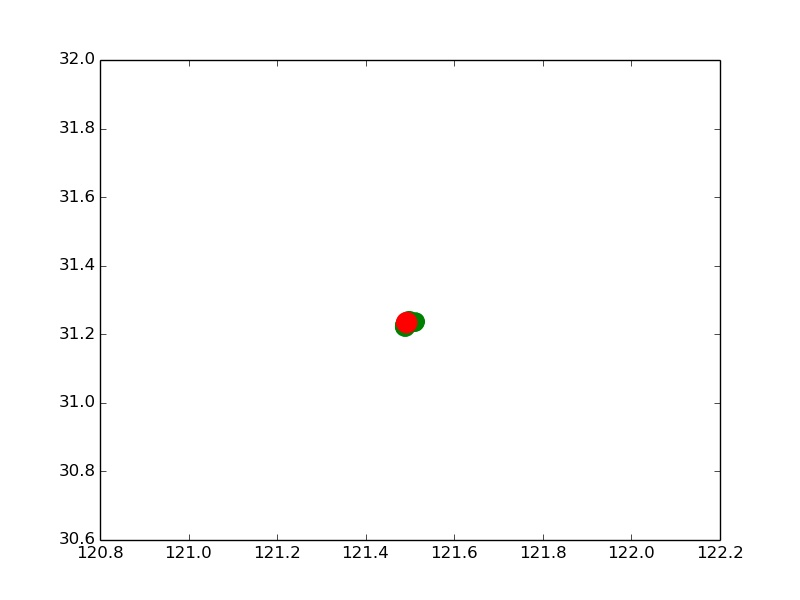
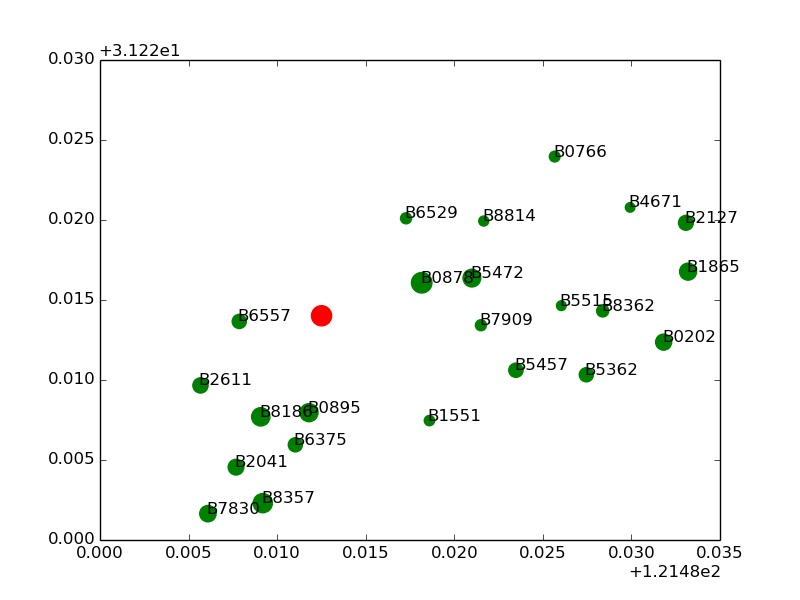
a

diff --git a/code/tools.py b/code/tools.py
@@ -8,7 +8,7 @@ from datetime import datetime
 import time
 from classes import *
 import numpy as np
-from numpy import mean, std
+from numpy import mean, std, abs
 import matplotlib.pyplot as plt
 import networkx as nx
 
@@ -24,6 +24,28 @@ def BuildKNNGraph(site,ls_spot_per_site,ls_nbrs,temp_order,CAPACITY):
 			if temp_order[ls_spot_per_site[j].sid] + temp_order[ls_spot_per_site[tpk[1]].sid]<=CAPACITY:
 				o_graph.add_edge(ls_spot_per_site[j].sid,ls_spot_per_site[tpk[1]].sid,weight = tpk[0])
 	return o_graph
+
+def ComputeCoorDirctn(lng1,lat1,lng2,lat2):
+	dirctn = 0.0
+	difflat = lat2 - lat1
+	difflng = lng2 - lng1
+	dirctn = DirTwoPi(difflng,difflat)
+	return dirctn
+
+def ComputeDirDiff(dir1,dir2):
+	dirdiff = 0.0
+	diffraw = 0.0
+	diffraw = abs(dir1 - dir2)
+	if diffraw > pi:
+		dirdiff = 2.0 * pi - diffraw
+	else:
+		dirdiff = diffraw
+	return dirdiff
+
+def ComputeNodeDirctn(p1,p2,ls_site,ls_spot,ls_shop):
+	[lng1,lat1] = GetLngLat(p1,ls_site,ls_spot,ls_shop)
+	[lng2,lat2] = GetLngLat(p2,ls_site,ls_spot,ls_shop)
+	return ComputeCoorDirctn(lng1,lat1,lng2,lat2)
 
 def ComputeTimeTbl(ls_trip,ls_site,ls_spot,ls_shop):
 	timetable = []
@@ -69,17 +91,44 @@ def Dist(p1,p2):
 	dist = copy(dist) / 1000.0
 	return dist
 
+def DirTwoPi(difflng,difflat):
+	dirctn = 0.0
+	if difflng == 0.0:
+		if difflat > 0.0:
+			return pi/2.0
+		elif difflat < 0.0:
+			return pi * 1.5
+		else:
+			return 0.0
+	if difflat == 0.0:
+		if difflng > 0.0:
+			return 0.0
+		elif difflng < 0.0:
+			return pi
+	dirraw = atan(difflat/difflng)
+	if difflng < 0.0:
+		if difflat > 0.0:
+			dirctn = copy(dirraw) + pi
+		elif difflat < 0.0:
+			dirctn = copy(dirraw) + pi
+	elif difflng > 0.0:
+		if difflat < 0.0:
+			dirctn = copy(dirraw) + 2.0 * pi
+		elif difflat > 0.0:
+			dirctn = copy(dirraw)
+	return dirctn
+
 def FindNaiveAssign(site,o_graph,CAPACITY,temp_order):
 	ls_res = []
 	temp_graph = deepcopy(o_graph)
-	# KNNGraph(temp_graph,k,site.sid)
+	# GraphKNN(temp_graph,k,site.sid)
 	r = 0
 	while temp_graph.number_of_edges()>0:
 		res = []
 		# print 'round ',r,'................'
 		r = r + 1
 		# print temp_graph.number_of_edges()
-		nbr = KNNGraph(site.sid,temp_graph,1)[0][0]
+		nbr = GraphKNN(site.sid,temp_graph,1)[0][0]
 		res.append([copy(site.sid),0])
 		# print nbr
 		total_bag = 0
@@ -94,7 +143,7 @@ def FindNaiveAssign(site,o_graph,CAPACITY,temp_order):
 			total_bag = copy(total_bag) + copy(temp_order[nbr])
 			new_start = copy(nbr)
 			nbr = ''
-			ls_nbr = KNNGraph(new_start,temp_graph,2)
+			ls_nbr = GraphKNN(new_start,temp_graph,2)
 			# print 'ls_nbr is ',ls_nbr
 			if ls_nbr[0][0] == site.sid:
 				nbr = copy(ls_nbr[1][0])
@@ -104,6 +153,46 @@ def FindNaiveAssign(site,o_graph,CAPACITY,temp_order):
 		res.append([copy(site.sid),0])
 		ls_res.append(copy(res))
 		# print 'total_bag is ', total_bag
+	return ls_res
+
+def FindADir(site,o_graph,CAPACITY,temp_order,ls_site,ls_spot,ls_shop):
+	ls_res = []
+	temp_graph = deepcopy(o_graph)
+	# GraphKNN(temp_graph,k,site.sid)
+	r = 0
+	prevdir = 0.0
+	while temp_graph.number_of_edges()>0:
+		res = []
+		# print 'round ',r,'................'
+		r = r + 1
+		# print temp_graph.number_of_edges()
+		nbr = GraphKNN(site.sid,temp_graph,1)[0][0]
+		prevdir = ComputeNodeDirctn(site.sid,nbr,ls_site,ls_spot,ls_shop)
+		res.append([copy(site.sid),0])
+		# print nbr
+		total_bag = 0
+		while total_bag + temp_order[nbr] <= CAPACITY:
+			res.append([copy(nbr),temp_order[nbr]])
+			# print 'nbr is ', nbr, 'bag is ', temp_order[nbr]
+			# print 'number of neighbors is ', temp_graph.neighbors(nbr)
+			if len(temp_graph.neighbors(nbr)) <= 1:
+				temp_graph.remove_node(nbr)
+				total_bag = copy(total_bag) + copy(temp_order[nbr])
+				break
+			total_bag = copy(total_bag) + copy(temp_order[nbr])
+			new_start = copy(nbr)
+			nbr = ''
+			ls_nbr = GraphDirKNN(site.sid,new_start,temp_graph,2,prevdir,ls_site,ls_spot,ls_shop)
+			# print 'ls_nbr is ',ls_nbr
+			if ls_nbr[0][0] == site.sid:
+				nbr = copy(ls_nbr[1][0])
+			else:
+				nbr = copy(ls_nbr[0][0])
+			temp_graph.remove_node(new_start)
+			# print nbr
+			prevdir = ComputeNodeDirctn(site.sid,nbr,ls_site,ls_spot,ls_shop)
+		res.append([copy(site.sid),0])
+		ls_res.append(copy(res))
 	return ls_res
 
 def FindSpotPerSite(site,ls_spot,ls_order):
@@ -123,8 +212,8 @@ def GetId(str_id):
 	return index
 
 def GetLngLat(locid,ls_site,ls_spot,ls_shop):
-	lng = 0
-	lat = 0
+	lng = 0.0
+	lat = 0.0
 	if 'A' in locid:
 		lng = ls_site[GetId(locid)].lng
 		lat = ls_site[GetId(locid)].lat
@@ -145,7 +234,25 @@ def GetLoc(locid,ls_site,ls_spot,ls_shop):
 		loc = copy(ls_shop[GetId(locid)])
 	return loc
 
-def KNNGraph(node,o_graph,k):
+def GraphDirKNN(site,node,o_graph,k,prevdir,ls_site,ls_spot,ls_shop):
+	# print 'inside GraphDirKNN...'
+	ls_nbr = []
+	knn = []
+	newdir = 0.0
+	ls_nbrnodes = o_graph.neighbors(node)
+	for nbrnode in ls_nbrnodes:
+		newdir = ComputeNodeDirctn(site,nbrnode,ls_site,ls_spot,ls_shop)
+		# print site, nbrnode, newdir
+		# print ComputeNodeDirctn(site,node,ls_site,ls_spot,ls_shop), prevdir
+		dirdiff = ComputeDirDiff(prevdir, newdir)
+		# print dirdiff
+		ls_nbr.append([copy(nbrnode),copy(dirdiff)])
+	knn = copy(sorted(ls_nbr,key=lambda x:(x[1]))[0:k])
+	# print node, ':'
+	# print sorted(ls_nbr,key=lambda x:(x[1]))
+	return knn
+
+def GraphKNN(node,o_graph,k):
 	ls_nbr = []
 	knn = []
 	ls_nbrnodes = o_graph.neighbors(node)
@@ -251,16 +358,16 @@ def PlotSpotPerSite(ls_site,ls_spot, ls_order):
 		for j in range(0,len(x)):
 			r = int(float(min_r) + float(ls_order[ls_oid_per_site[j]].num - min_size) * float(max_r - min_r) / float(max_size - min_size))
 			plt.scatter(x[j],y[j],color = 'g',s = r)
-		# for j, txt in enumerate(ls_id):
-		# 	plt.annotate(txt,(x[j],y[j]))
+		for j, txt in enumerate(ls_id):
+			plt.annotate(txt,(x[j],y[j]))
 		# plt.xlim(120.8,122.2)
 		# plt.ylim(30.6,32.0)
 		plt.scatter(site.lng,site.lat,color = 'r', s = 210)
 		plt.savefig('../figures/site' + str(i+1) + 'spot.jpg',format = 'jpg')
 		plt.clf()
 		num = copy(num) + len(ls_id)
-		# if i == 5:
-		# break
+		if i == 5:
+			break
 	print 'total spot is ' + str(num)
 	return
 

diff --git a/code/main.py b/code/main.py
@@ -15,6 +15,9 @@ import networkx as nx
 # print Dist(x,y)
 # z = Shop(1,0,93)
 CAPACITY = 140
+# speed = 0.25
+# str_date = '1970-01-01'
+
 def main():
 	[ls_site,ls_spot,ls_shop,ls_dorder,ls_otoorder,ls_courier] = LoadAll()
 	num_dorder = len(ls_dorder)
@@ -26,17 +29,19 @@ def main():
 		ls_res = []
 		temp_order = {}
 		[ls_spot_per_site,temp_order] = FindSpotPerSite(site,ls_spot,ls_dorder)
-		ls_nbrs = KNNLoc(ls_spot_per_site,5)
+		ls_nbrs = KNNLoc(ls_spot_per_site,10)
 		o_graph = BuildKNNGraph(site,ls_spot_per_site,ls_nbrs,temp_order,CAPACITY)
 		ls_res = FindNaiveAssign(site,o_graph,CAPACITY,temp_order)
-		# print ls_res
+		# ls_res = FindADir(site,o_graph,CAPACITY,temp_order,ls_site,ls_spot,ls_shop)
 		print len(ls_res)
 		ls_trip = ComputeTimeTbl(ls_res,ls_site,ls_spot,ls_shop)
 		for trip in ls_trip:
 			cost = copy(cost) + copy(trip['cost'])
+		# for res in ls_res:
+		# 	print res
 		# break
 		total_worker = copy(total_worker) + len(ls_res)
-		# if i >10:
+		# if i ==3:
 		# 	break
 	print 'total_worker is ',total_worker
 	print 'total cost is ', cost

diff --git a/code/classes.py b/code/classes.py
@@ -1,4 +1,14 @@
-
+# import csv
+# from copy import copy
+# import os
+# from math import asin,acos,atan,sqrt,sin,cos,tan,pi
+# import classes
+# from datetime import datetime
+# import time
+# from classes import *
+# from tools import *
+# from load import *
+# import networkx as nx
 
 class Site(object):
 	"""docstring for Site"""
@@ -90,6 +100,14 @@ str_date = '1970-01-01'
 
 def main():
 	print speed
+	difflng1 = 121.481796 - 121.486181
+	difflat1 = 31.268236 - 31.270203
+	difflng2 = 121.483459 - 121.486181
+	difflat2 = 31.26614 - 31.270203
+	dir1 = DirTwoPi(difflng1,difflat1)
+	dir2 = DirTwoPi(difflng2,difflat2)
+	print dir1, dir2
+	print ComputeDirDiff(dir1, dir2)
 	return
 
 if __name__ == "__main__":
